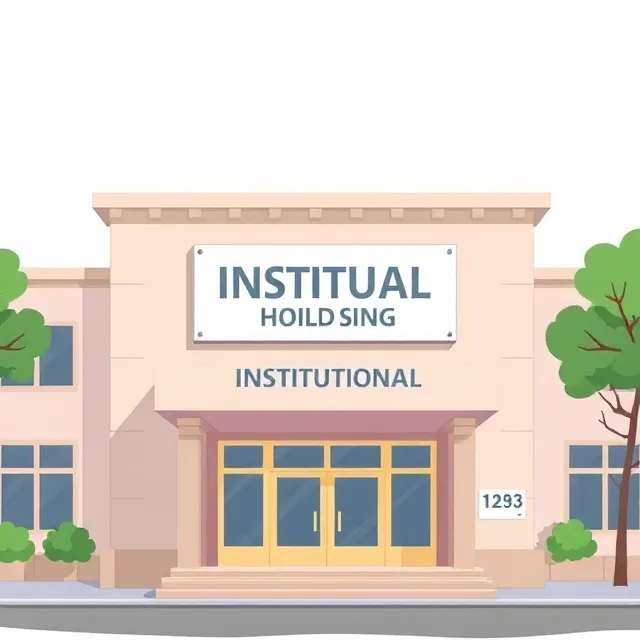
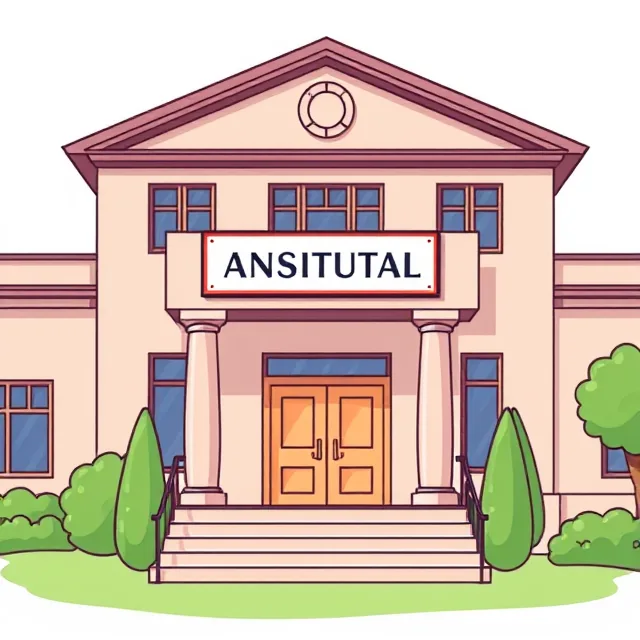
짝 미션을 화면에 그렸다 + 한국어 과정 중복 낱말을 고쳤다
· days.json의 짝 미션(goal/how/a/b)이 **어디에도 그려지지 않고 있었다.**
  23강에 써 놓고 아무도 못 봤다 — 자료만 있고 화면이 없었다.
  세트를 끝낸 뒤(finishDay) 나오게 했다. 두 사람 카드는 각자 자기 것만 연다 —
  서로 보면 정보 차이가 사라져 그냥 낭독이 된다.
  이 앱에서 효과크기가 가장 큰 활동이다(짝 대화 g=1.09).
· 한국어 과정 Day 13과 18에 '문제'가 똑같이 두 번 있었다(뜻도 그림도 같음).
  Day 18의 문법이 '보다 **더**'인데 정작 '더'를 안 가르치고 대화에서만 쓰고
  있었다 — 그 자리에 넣었다. 그림은 이미 있는 x-them(thêm)을 쓴다.
· 팔(八, Day 7)과 팔(cánh tay, Day 21)은 진짜 동음이의어다. 지우지 않고
  뜻풀이로 갈랐다 — 갈라 두지 않으면 '팔'을 묻는 문항의 정답이 둘이 된다.

diff --git a/app.js b/app.js
@@ -5043,7 +5043,41 @@ function finishDay(d) {
   hm.onclick = renderHome;
   r.append(hm);
   b.append(r);
+  missionCard(b, d);
   show('quiz', '오늘 완료', true);
+}
+
+/* 짝 미션 — 세트를 다 한 **뒤에** 나온다. 오늘 배운 것으로 실제로 말을 주고받는 자리다.
+   효과크기가 이 앱에서 가장 큰 활동이다(짝 대화 g=1.09) — 그런데 지금까지
+   23강에 써 놓고 **어디에도 그리지 않고 있었다.** 자료만 있고 화면이 없었다.
+
+   두 사람 카드(a·b)는 **각자 자기 것만** 연다. 서로 보면 물어볼 것이 없어져
+   '정보 차이'가 사라지고, 그러면 그냥 낭독이 된다 — 미션이 미션이 아니게 된다. */
+function missionCard(host, d) {
+  const m = d && d.mission;
+  if (!m || !m.goal) return;
+  const c = el('div', 'excard mission');
+  c.append(el('h3', 'exhead', '🤝 ' + tr('짝과 함께')));
+  c.append(el('div', 'msgoal', esc(m.goal)));
+  if (m.how) c.append(el('div', 'gexp', esc(m.how)));
+  if (m.a || m.b) {
+    c.append(el('p', 'note', tr('자기 것만 여십시오 — 서로 보면 물어볼 것이 없어집니다.')));
+    const row = el('div', 'msrow');
+    [['A', m.a], ['B', m.b]].forEach(([who, txt]) => {
+      if (!txt) return;
+      const btn = el('button', 'msrole');
+      btn.append(el('b', null, '나는 ' + who), el('span', null, tr('눌러서 보기')));
+      btn.onclick = () => {
+        btn.textContent = '';
+        btn.className = 'msrole open';
+        btn.append(el('b', null, who), el('span', null, esc(txt)));
+        btn.onclick = null;
+      };
+      row.append(btn);
+    });
+    c.append(row);
+  }
+  host.append(c);
 }
 
 /* ---------- 퀴즈 ---------- */

diff --git a/style.css b/style.css
@@ -1529,3 +1529,16 @@ button.wex{width:100%; background:transparent; color:var(--fg); font:inherit; cu
   border-radius:8px; text-decoration:none; word-break:break-all}
 .morelink::after{content:" ↗"}
 .morelink:hover,.morelink:focus-visible{border-color:var(--accent); outline:none}
+
+/* 짝 미션 — 세트를 끝낸 뒤에 나온다. 카드 두 장은 각자 자기 것만 연다. */
+.mission{margin-top:18px; border-left:3px solid var(--accent)}
+.msgoal{font-size:17px; font-weight:700; line-height:1.5}
+.msrow{display:flex; gap:10px; margin-top:10px; flex-wrap:wrap}
+.msrole{flex:1 1 46%; min-width:150px; display:flex; flex-direction:column; gap:5px;
+  align-items:flex-start; text-align:left; padding:13px 15px; border-radius:12px;
+  border:1px dashed var(--line); background:var(--bg); color:var(--ink);
+  font-size:14px; line-height:1.55; cursor:pointer}
+.msrole b{font-size:15px}
+.msrole span{color:var(--dim)}
+.msrole.open{border-style:solid; border-color:var(--accent); cursor:default}
+.msrole.open span{color:var(--ink)}

diff --git a/index.html b/index.html
@@ -11,7 +11,7 @@
 <meta name="apple-mobile-web-app-title" content="짜오짜오">
 <meta name="mobile-web-app-capable" content="yes">
 <title>짜오짜오 — 베트남어</title>
-<link rel="stylesheet" href="style.css?v=c7018acc">
+<link rel="stylesheet" href="style.css?v=e382a1b5">
 </head>
 <body>
 
@@ -145,7 +145,7 @@
   </section>
 </main>
 
-<script src="pitch.js?v=c7018acc"></script>
-<script src="app.js?v=c7018acc"></script>
+<script src="pitch.js?v=e382a1b5"></script>
+<script src="app.js?v=e382a1b5"></script>
 </body>
 </html>

diff --git a/sw.js b/sw.js
@@ -1,7 +1,7 @@
 /* 오프라인 캐시.
    앱 껍데기와 커리큘럼은 처음 열 때 통째로 받아두고,
    음성은 22MB나 되므로 한 번 재생한 것만 캐시에 남긴다 (데이터 요금 배려). */
-const V = 'vn-c7018acc';
+const V = 'vn-e382a1b5';
 const SHELL = ['./', './index.html', './app.js', './pitch.js', './style.css',
                './manifest.json', './icon.png',
                './data/days.json', './data/audio_index.json'];
